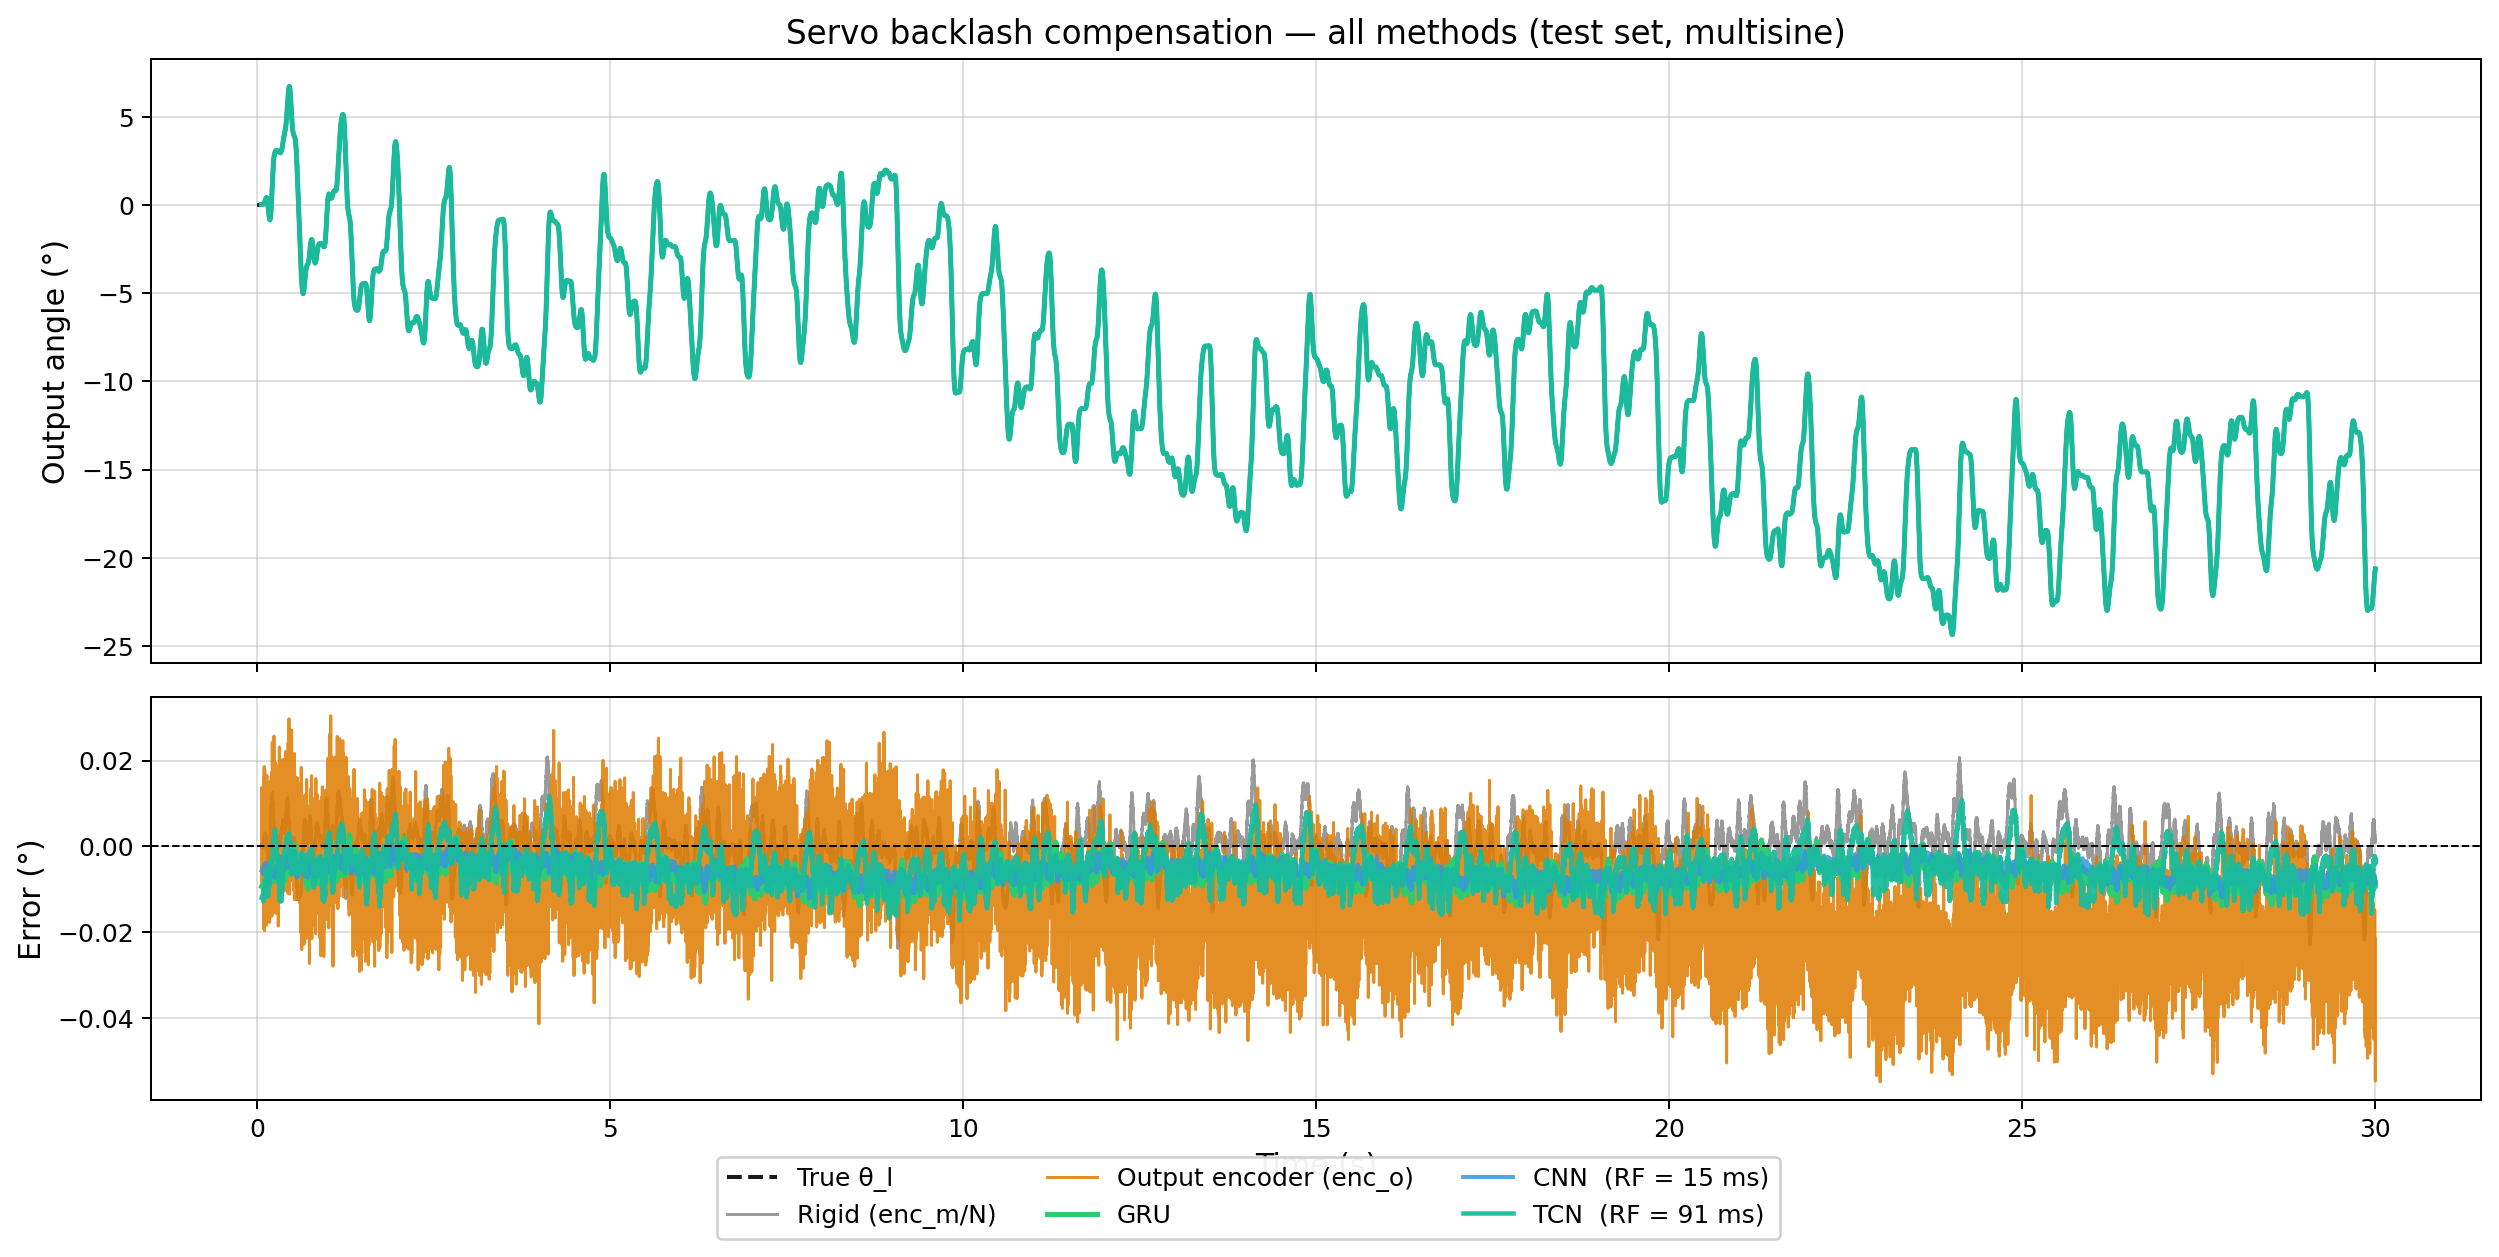
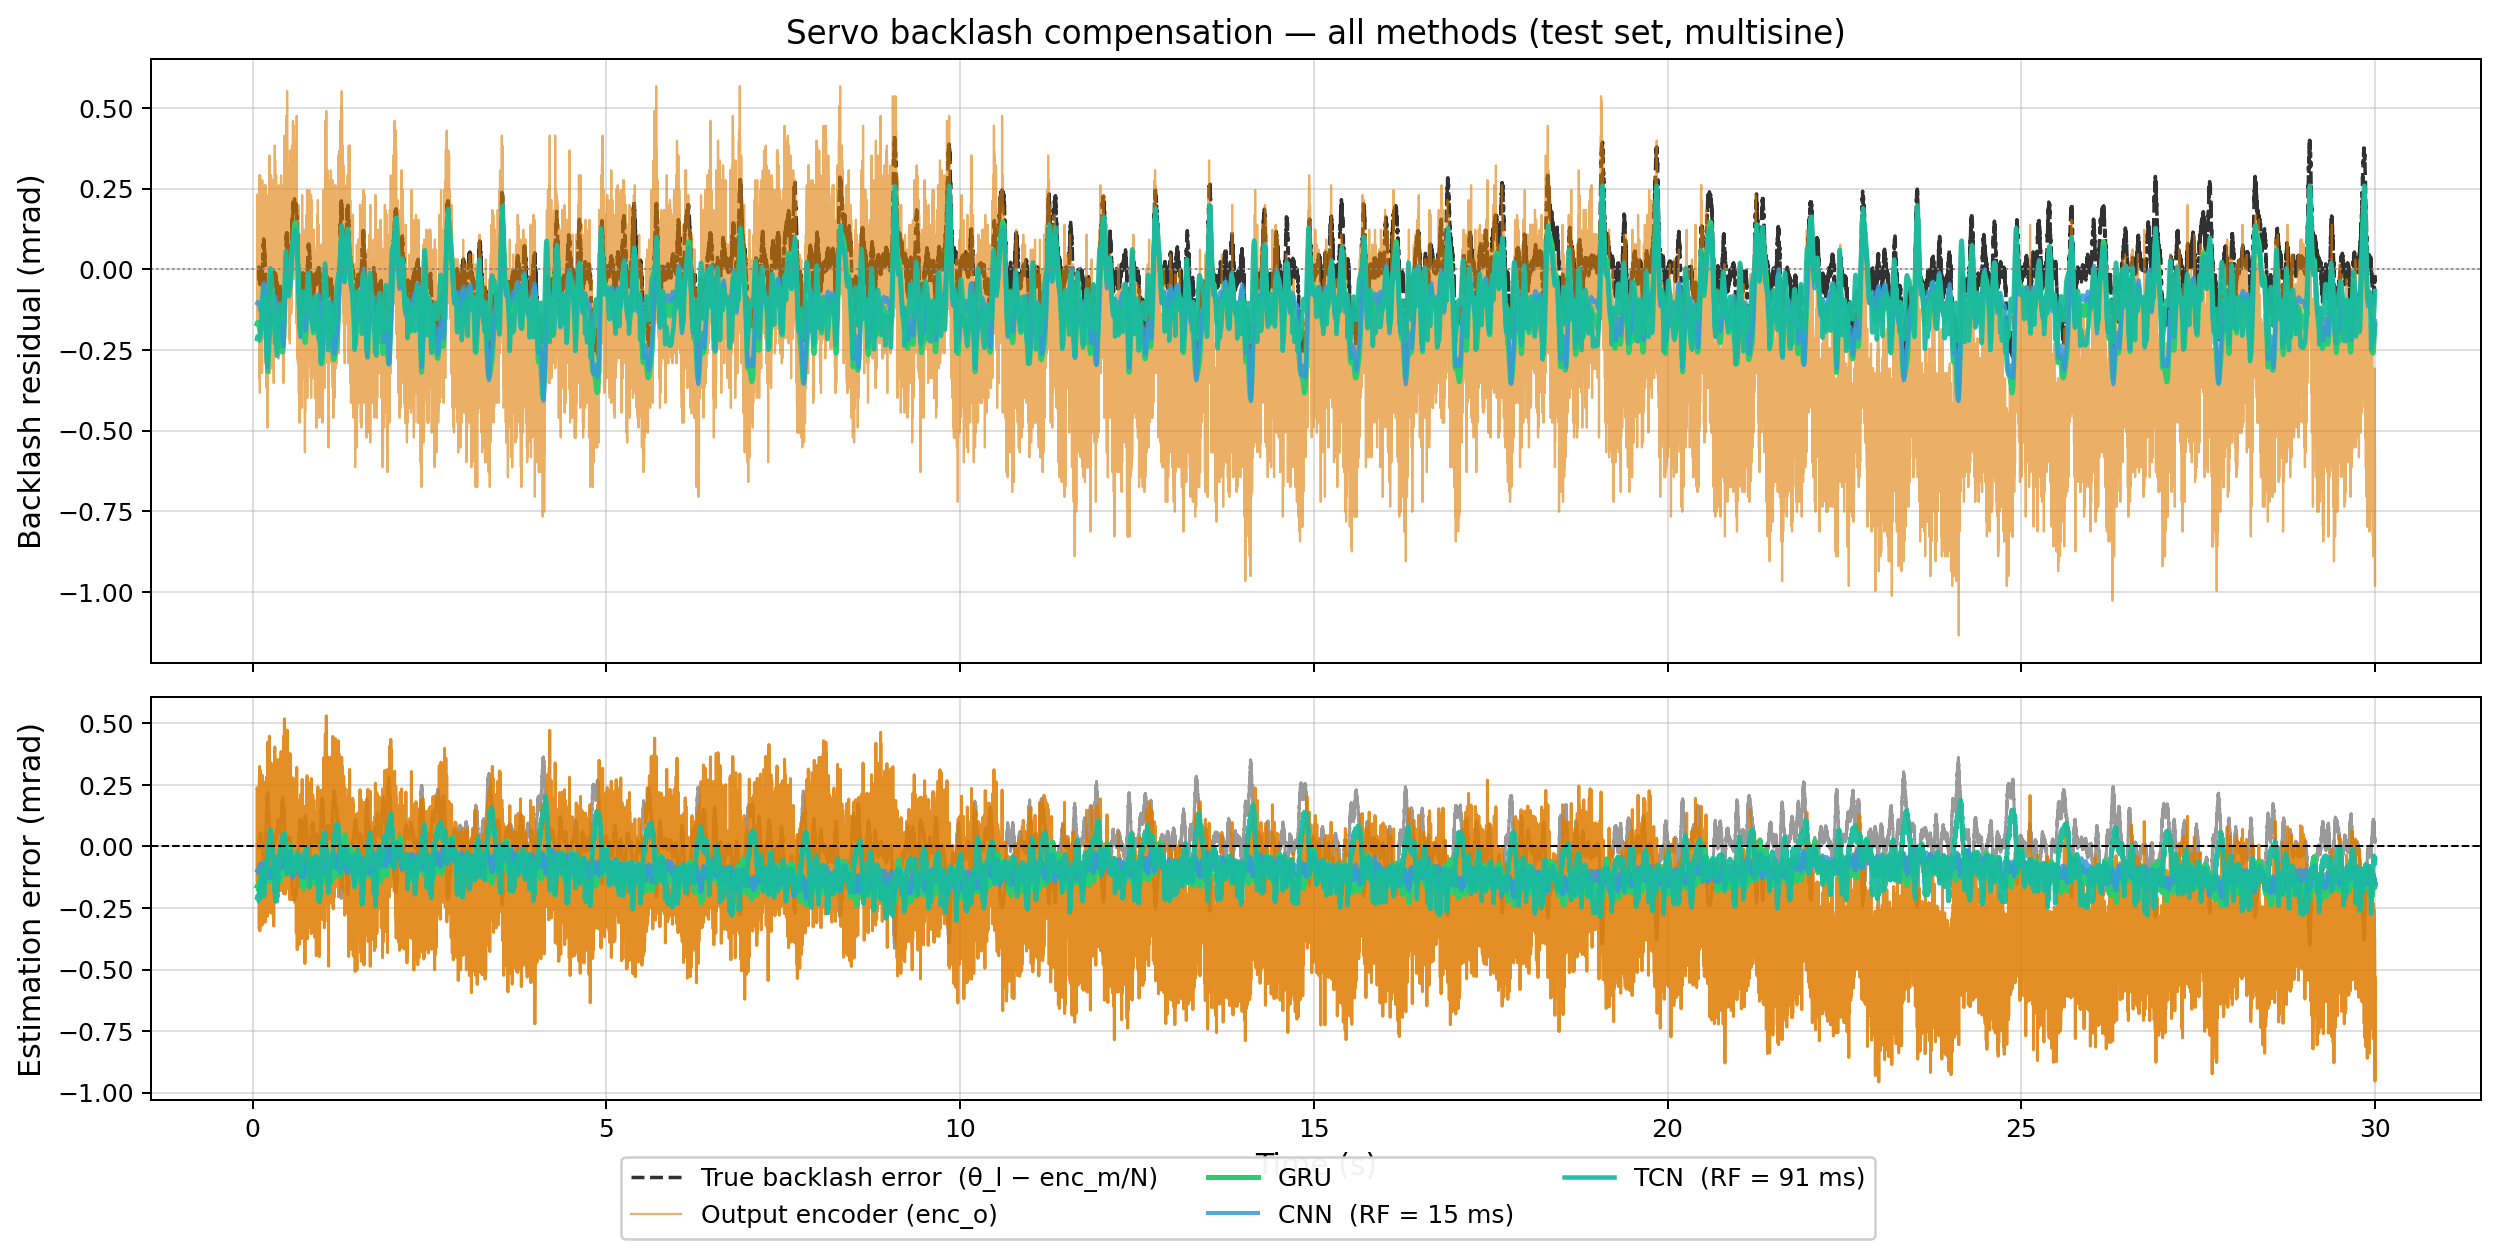
Fix comparison plot: show backlash residual instead of absolute angle
Top panel now shows (pred - enc_m/N) in mrad so all methods are
distinguishable. Bottom panel shows estimation error in mrad.
Add zoomed version over 2-5s for presentation.

diff --git a/compare.py b/compare.py
@@ -141,45 +141,60 @@ def main() -> None:
         print(f"  {_STYLE[key][0]:<30s}  {r*1e3:7.3f}  {np.degrees(r):8.4f}  {impr:+6.1f}%")
 
     # ------------------------------------------------------------------
-    # Plot
+    # Plot — top panel: backlash residual (mrad); bottom: residual error (mrad)
+    # All methods predict theta_l; showing (pred - rigid) makes differences visible.
+    # Rigid baseline is the reference line at 0.
     # ------------------------------------------------------------------
     fig, axes = plt.subplots(2, 1, figsize=(14, 7), sharex=True,
                              gridspec_kw={"height_ratios": [3, 2]})
 
-    def _p(ax, t_slice, y_slice, key):
-        label, color, ls, lw, alpha = _STYLE[key]
-        ax.plot(t[t_slice], np.degrees(y_slice), color=color, ls=ls,
-                lw=lw, alpha=alpha, label=label)
-
     sl_plot = slice(max(i0, t0), i1)
+    t_sl    = t[sl_plot]
 
-    # Speed panel
+    # Backlash residual = pred - rigid = what each method adds on top of enc_m/N
+    true_residual = theta_l - rigid  # ground-truth backlash error
+
+    def _mrad(v): return v * 1e3
+
     ax = axes[0]
-    ax.plot(t[i0:i1], np.degrees(theta_l[i0:i1]),
-            color=_STYLE["True"][1], ls="--", lw=_STYLE["True"][3],
-            alpha=_STYLE["True"][4], label=_STYLE["True"][0])
-    _p(ax, sl_plot, rigid[sl_plot],  "Rigid")
-    _p(ax, sl_plot, enc_o[sl_plot],  "EncO")
+    # Ground truth backlash error
+    ax.plot(t[sl_plot], _mrad(true_residual[sl_plot]),
+            color=_STYLE["True"][1], ls="--", lw=1.4,
+            alpha=0.9, label="True backlash error  (θ_l − enc_m/N)")
+    # Output encoder residual
+    ax.plot(t_sl, _mrad((enc_o - rigid)[sl_plot]),
+            color=_STYLE["EncO"][1], ls="-", lw=0.9, alpha=0.6,
+            label=_STYLE["EncO"][0])
+    # Model residuals
     for key, pred in model_preds.items():
+        label, color, ls, lw, alpha = _STYLE[key]
         pred_full = np.full(T, np.nan)
         pred_full[t0:] = pred
-        _p(ax, sl_plot, pred_full[sl_plot], key)
-
-    ax.set_ylabel("Output angle (°)", fontsize=12)
+        residual = pred_full - rigid
+        ax.plot(t_sl, _mrad(residual[sl_plot]), color=color, ls=ls,
+                lw=lw, alpha=alpha, label=label)
+    ax.axhline(0, color="#888888", lw=0.8, ls=":")
+    ax.set_ylabel("Backlash residual (mrad)", fontsize=12)
     ax.grid(True, alpha=0.4)
     ax.set_title("Servo backlash compensation — all methods (test set, multisine)", fontsize=13)
 
-    # Error panel
+    # Error panel — estimation error = pred - theta_l, in mrad
     ax = axes[1]
     ref_sl = theta_l[sl_plot]
-    _p(ax, sl_plot, rigid[sl_plot] - ref_sl, "Rigid")
-    _p(ax, sl_plot, enc_o[sl_plot] - ref_sl, "EncO")
+    ax.plot(t_sl, _mrad((rigid - theta_l)[sl_plot]),
+            color=_STYLE["Rigid"][1], lw=_STYLE["Rigid"][3],
+            alpha=_STYLE["Rigid"][4], label=_STYLE["Rigid"][0])
+    ax.plot(t_sl, _mrad((enc_o - theta_l)[sl_plot]),
+            color=_STYLE["EncO"][1], lw=_STYLE["EncO"][3],
+            alpha=_STYLE["EncO"][4], label=_STYLE["EncO"][0])
     for key, pred in model_preds.items():
+        label, color, ls, lw, alpha = _STYLE[key]
         pred_full = np.full(T, np.nan)
         pred_full[t0:] = pred
-        _p(ax, sl_plot, pred_full[sl_plot] - ref_sl, key)
+        ax.plot(t_sl, _mrad((pred_full - theta_l)[sl_plot]),
+                color=color, ls=ls, lw=lw, alpha=alpha, label=label)
     ax.axhline(0, color="k", lw=0.8, ls="--")
-    ax.set_ylabel("Error (°)", fontsize=12)
+    ax.set_ylabel("Estimation error (mrad)", fontsize=12)
     ax.set_xlabel("Time (s)", fontsize=12)
     ax.grid(True, alpha=0.4)
 
